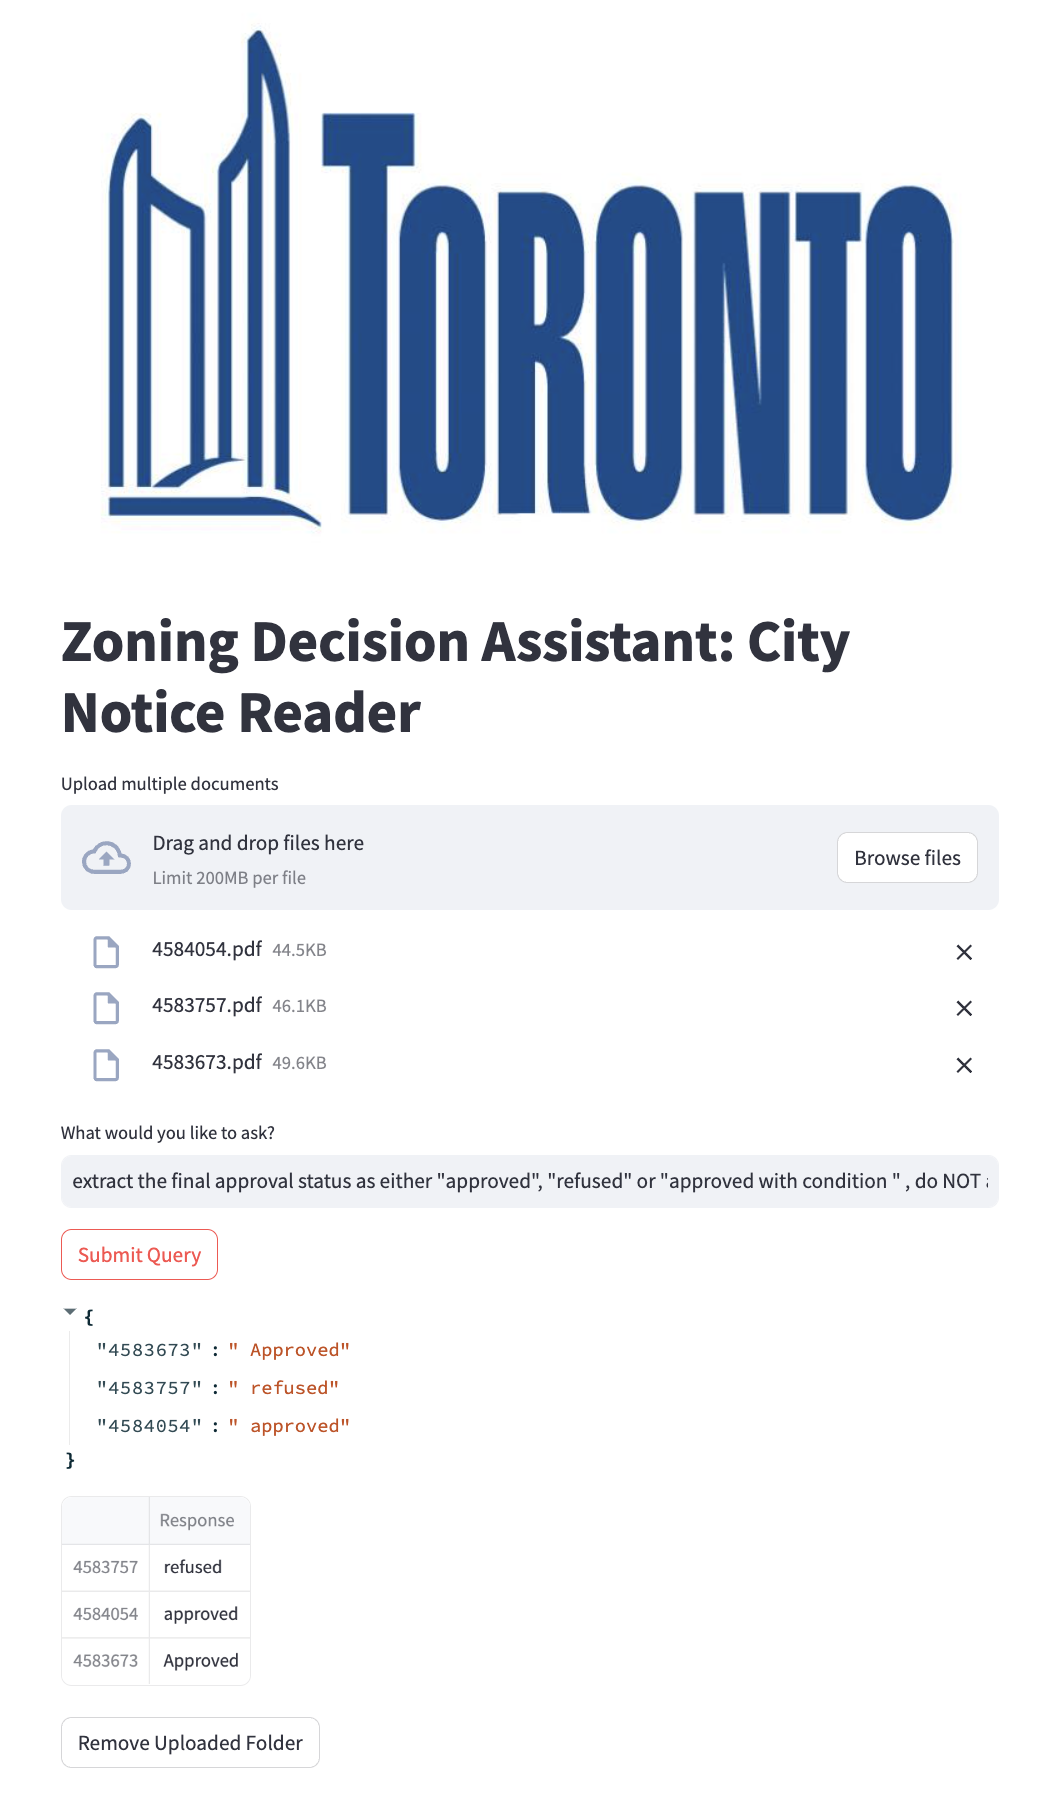
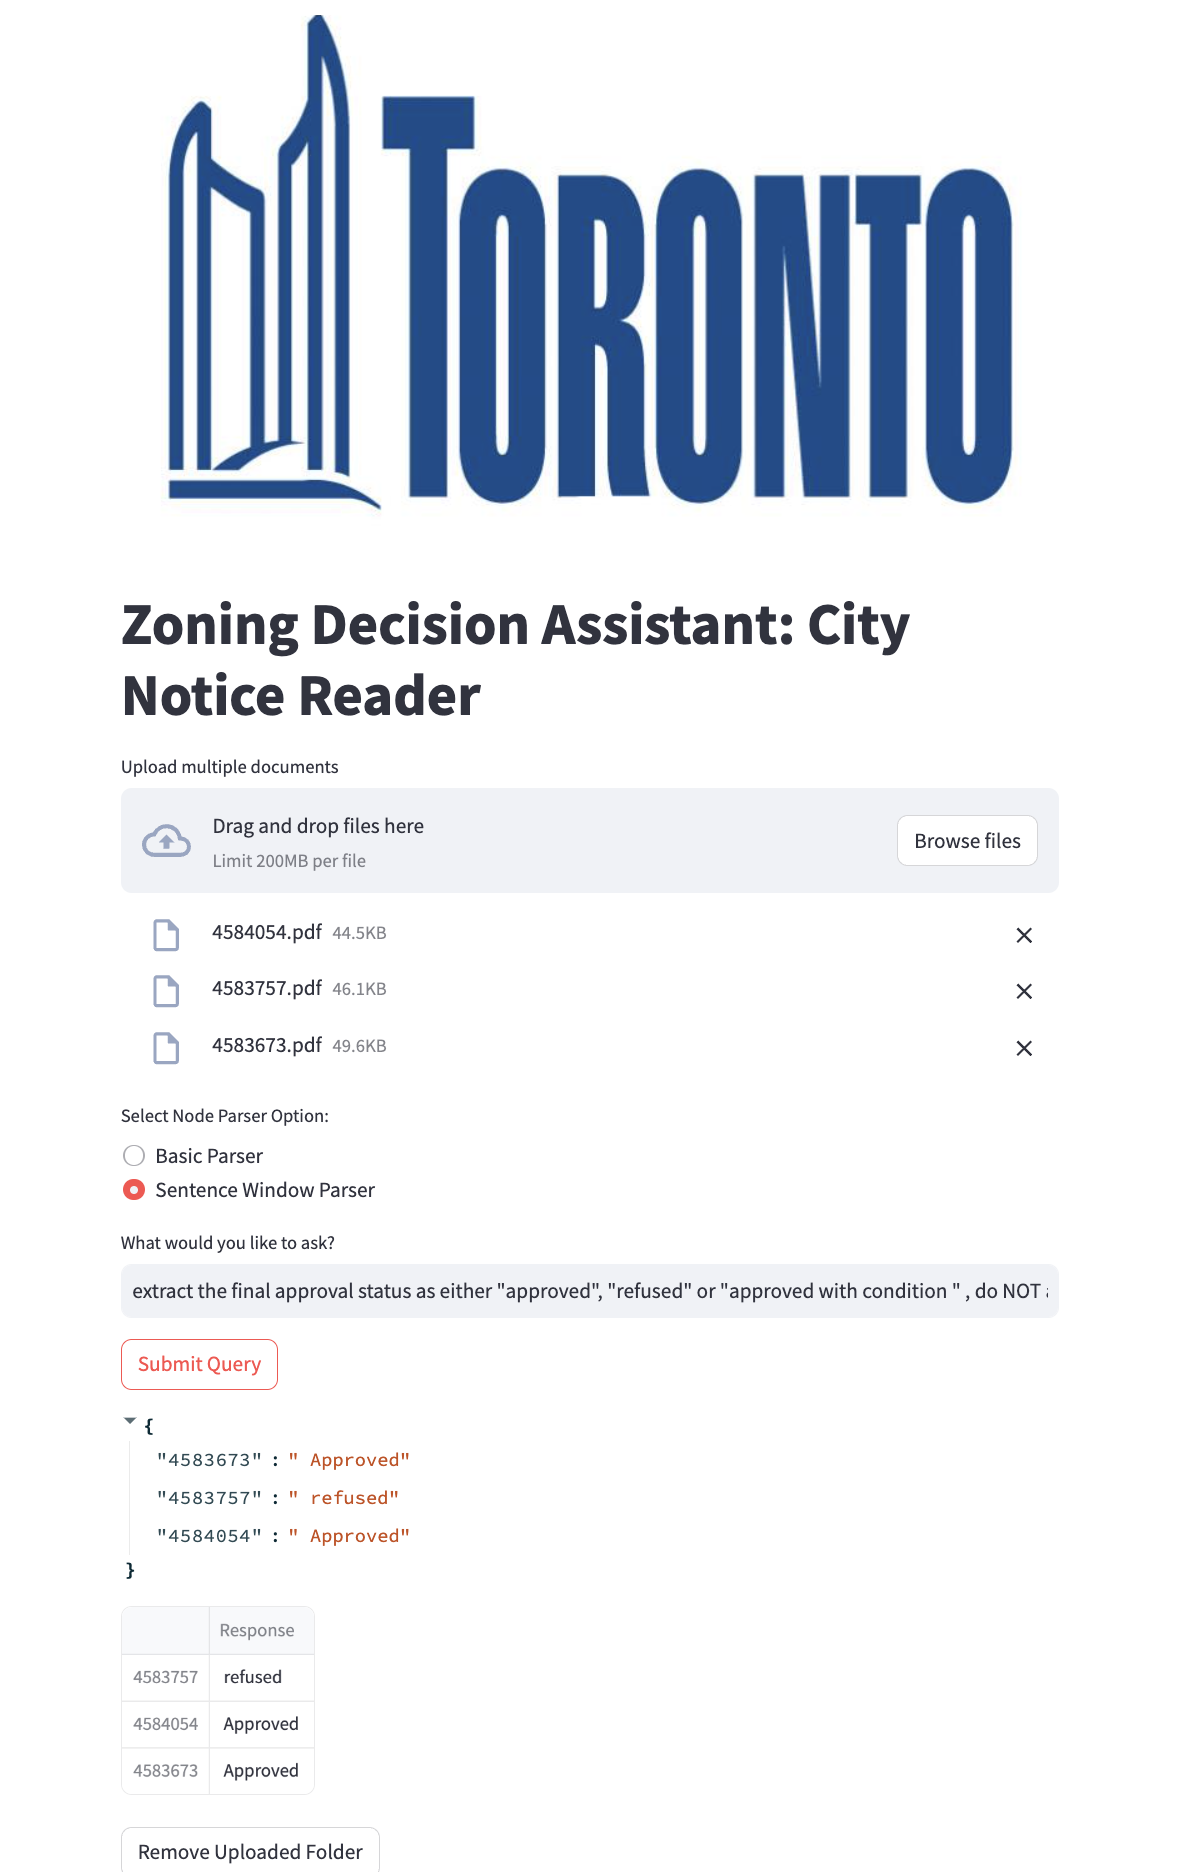
add node parser options

Changed region(s): [[0.0617, 0.0, 0.9249, 0.9933], [0.7707, 0.4346, 0.9249, 0.4967], [0.894, 0.6519, 0.9249, 0.6829]]

diff --git a/initialize_llama.py b/initialize_llama.py
@@ -1,4 +1,6 @@
 # initialize_llama.py
+from llama_index.core.node_parser import SentenceWindowNodeParser, SentenceSplitter
+
 import os
 from llama_index.core import VectorStoreIndex, ServiceContext, SimpleDirectoryReader, Document
 from llama_index.core.node_parser import SentenceWindowNodeParser
@@ -6,23 +8,65 @@ from llama_index.llms.llama_cpp import LlamaCPP
 from llama_index.embeddings.huggingface import HuggingFaceEmbedding
 from llama_index.core.indices.postprocessor import SentenceTransformerRerank, MetadataReplacementPostProcessor
 
-def initialize_llama(documents_paths):
+# def initialize_llama(documents_paths):
+#     """
+#     Initializes the LLAMA model and creates query engines for each document.
+
+#     Args:
+#         documents_paths (list): List of file paths of the documents to be indexed.
+
+#     Returns:
+#         dict: Dictionary containing document titles as keys and corresponding query engines as values.
+#     """
+#     sentence_window_engines = {}
+#     llm = LlamaCPP(model_url='https://huggingface.co/TheBloke/Mistral-7B-Instruct-v0.2-GGUF/resolve/main/mistral-7b-instruct-v0.2.Q4_K_M.gguf', 
+#                    temperature=1, 
+#                    model_kwargs={"n_gpu_layers": -1},
+#                    verbose=True,)
+#     embed_model = HuggingFaceEmbedding(model_name="BAAI/bge-small-en-v1.5")
+#     node_parser = SentenceWindowNodeParser.from_defaults(window_size=3, window_metadata_key="window", original_text_metadata_key="original_text")
+#     sentence_context = ServiceContext.from_defaults(llm=llm, embed_model=embed_model, node_parser=node_parser)
+#     rerank = SentenceTransformerRerank(top_n=2, model="BAAI/bge-reranker-base")
+#     postproc = MetadataReplacementPostProcessor(target_metadata_key="window")
+    
+#     for document_path in documents_paths:
+#         title = os.path.splitext(os.path.basename(document_path))[0]
+#         documents = SimpleDirectoryReader(input_files=[document_path]).load_data()
+#         documents = Document(text="\n\n".join([doc.text for doc in documents]))
+#         sentence_index = VectorStoreIndex.from_documents([documents], service_context=sentence_context)
+#         sentence_window_engine = sentence_index.as_query_engine(similarity_top_k=6, node_postprocessors=[postproc, rerank])
+#         sentence_window_engines[title] = sentence_window_engine
+
+#     return sentence_window_engines
+
+
+
+# Function to initialize LLAMA model and necessary components
+def initialize_llama(documents_paths, use_advanced_node_parser):
     """
     Initializes the LLAMA model and creates query engines for each document.
 
     Args:
         documents_paths (list): List of file paths of the documents to be indexed.
+        use_advanced_node_parser (bool): Flag indicating whether to use advanced node parser or not.
 
     Returns:
         dict: Dictionary containing document titles as keys and corresponding query engines as values.
     """
+
     sentence_window_engines = {}
     llm = LlamaCPP(model_url='https://huggingface.co/TheBloke/Mistral-7B-Instruct-v0.2-GGUF/resolve/main/mistral-7b-instruct-v0.2.Q4_K_M.gguf', 
                    temperature=1, 
                    model_kwargs={"n_gpu_layers": -1},
                    verbose=True,)
     embed_model = HuggingFaceEmbedding(model_name="BAAI/bge-small-en-v1.5")
-    node_parser = SentenceWindowNodeParser.from_defaults(window_size=3, window_metadata_key="window", original_text_metadata_key="original_text")
+
+    # Select node parser based on user's choice
+    if use_advanced_node_parser:
+        node_parser = SentenceWindowNodeParser.from_defaults(window_size=10, window_metadata_key="window", original_text_metadata_key="original_text")
+    else:
+        node_parser = SentenceSplitter() #chunk_size=500, chunk_overlap=20
+    
     sentence_context = ServiceContext.from_defaults(llm=llm, embed_model=embed_model, node_parser=node_parser)
     rerank = SentenceTransformerRerank(top_n=2, model="BAAI/bge-reranker-base")
     postproc = MetadataReplacementPostProcessor(target_metadata_key="window")

diff --git a/app.py b/app.py
@@ -8,38 +8,58 @@ from file_operations import cache_uploaded_documents, remove_uploaded_folder
 st.set_page_config(page_icon="./icon/Toronto-logo-blue-750.jpg")
 st.image("./icon/Toronto-logo-blue-750.jpg", use_column_width=True, width=30)
 st.title('Zoning Decision Assistant: City Notice Reader')
-
 upload_folder = 'temp'
 if upload_folder and not os.path.exists(upload_folder):
     os.makedirs(upload_folder)
 
+# Display file uploader for multiple documents
 uploaded_files = st.file_uploader("Upload multiple documents", accept_multiple_files=True)
 first_button_run_finished = False
 
+# If files are uploaded and upload folder is specified
 if uploaded_files and upload_folder:
+    # Cache the uploaded documents to the specified folder
     cached_documents = cache_uploaded_documents(uploaded_files, upload_folder)
+    # Get paths of the uploaded documents
     document_paths = [f"./{upload_folder}/" + file_content for file_content in os.listdir(f'./{upload_folder}/')]
-    sentence_window_engines = initialize_llama(document_paths)
+    
+    # Display buttons for selecting node parser options
+    parser_option = st.radio("Select Node Parser Option:", ("Basic Parser", "Sentence Window Parser"))
+
+    # Set flag based on user's choice of node parser
+    use_advanced_node_parser = True if parser_option == "Sentence Window Parser" else False
+
+    # Initialize the LLAMA model and query engines for the uploaded documents
+    sentence_window_engines = initialize_llama(document_paths, use_advanced_node_parser)
+    # Get user input query
     query = st.text_input("What would you like to ask?")
 
+    # If 'Submit Query' button is clicked
     if st.button("Submit Query"):
+        # Check if query is provided
         if not query.strip():
             st.error(f"Please provide the search query.")
         else:
             try:
                 combined_responses = {}
+                # Query each document using corresponding query engine
                 for doc_title, engine in sentence_window_engines.items():
                     response = engine.query(query)
                     combined_responses[doc_title] = response.response
 
+                # Display the combined responses
                 st.write(combined_responses)
+                # Convert responses to DataFrame and display
                 df = pd.DataFrame.from_dict(combined_responses, orient='index', columns=['Response'])
                 st.dataframe(df)
             except Exception as e:
                 st.error(f"An error occurred: {e}")
 
+    # Update flag to indicate the first button run is finished
     first_button_run_finished = True
 
+# If the first button run is finished, show the "Remove Uploaded Folder" button
 if first_button_run_finished:
     if st.button("Remove Uploaded Folder"):
+        # Remove the uploaded folder directory
         remove_uploaded_folder(upload_folder)
